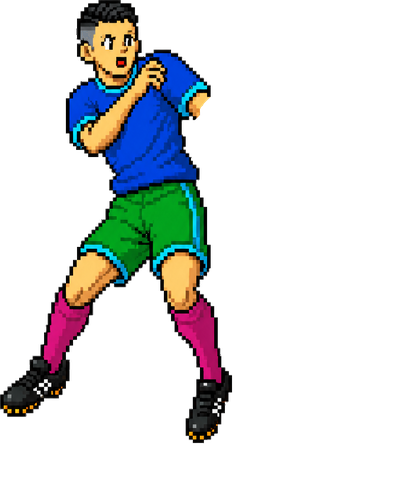
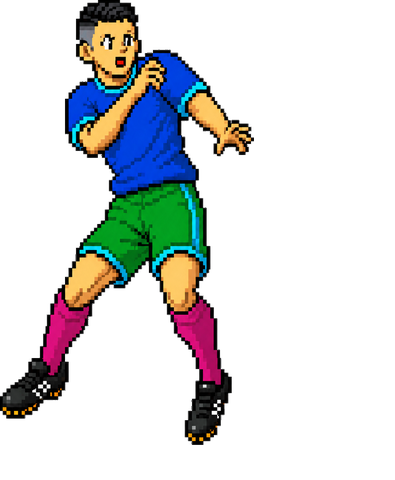
change(cutscene): ヘディングriseを独立生成2体へ差し替え（機械分離の腕欠損解消・lab限定）
- rise(跳び上がり)の攻守2体を「1枚絵2選手の機械分離」→「ChatGPTで1体ずつ別々生成した単体2枚」へ差し替え。旧版で分離時に切断されていた攻撃体の腕が完全になった（純改善・asset-qa確認）
- 新アセット header_rise_atk/def.png(395×480共通座標系): 境界フラッドフィル透過→刈り上げ/髪ツヤのリカラー窓パージ(atk5422/def4402px脱彩度)→シャツ青面積で旧版へ体格正規化(atk8253/def7283px・±0.4%)→de-fringe→旧頭センロイドアンカーで配置。処理系は tools/proto/process_header_rise2.py に保存(従来未保存だったパージ実装含む)
- 受入: 機械QA(赤キットリカラーシム髪着色ゼロ・ブーツ白ディテール全保持・クリップ新旧同等) + asset-qa 両体PASS
- 配線は _HEADER_RISE_*_SRC の ?v=2 バンプのみ。座標系/体格を旧版に合わせたためレンダラ無改変・clashとの遷移も体格連続を dist-lab 実描画(固定クロックコマ送り)で確認
- 本番(MangaRecolor未ロード)は従来SVGフォールバックのまま不変

Changed region(s): [[0.0, 0.0, 0.638, 0.875], [0.4557, 0.7188, 0.6076, 0.9375], [0.4557, 0.125, 0.4861, 0.1562]]

diff --git a/js/cutscene.js b/js/cutscene.js
@@ -1892,8 +1892,10 @@ function _headerRecolor(base, atkColor, defColor, srcId) {
 //   MangaRecolor で各チームのキット4色＋選手肌へ独立リカラー→同じ矩形に重ねて競り合い構図を復元。
 //   描画順=守備(先)→攻撃(後)で攻撃を前面（競り勝つ絵）。clashは当面 rise 流用（下の _HEADER_CLASH_* を
 //   専用アートへ差し替えれば frame B が切り替わる）。MangaRecolor 未ロード(本番)は null→従来SVGへ。
-var _HEADER_RISE_ATK_SRC = 'img/cutscenes/header_rise_atk.png';
-var _HEADER_RISE_DEF_SRC = 'img/cutscenes/header_rise_def.png';
+//   rise は 2026-07-10 に「1枚絵の機械分離」→「独立生成の単体2枚」へ差し替え（旧版の腕欠損解消・
+//   処理系 tools/proto/process_header_rise2.py・座標系/体格は旧版に正規化済み）。
+var _HEADER_RISE_ATK_SRC = 'img/cutscenes/header_rise_atk.png?v=2';
+var _HEADER_RISE_DEF_SRC = 'img/cutscenes/header_rise_def.png?v=2';
 // clash（接触）専用アート（2026-07-09 差し替え済み・rise と同じ2体分離＋MangaRecolor方式）。
 var _HEADER_CLASH_ATK_SRC = 'img/cutscenes/header_clash_atk.png';
 var _HEADER_CLASH_DEF_SRC = 'img/cutscenes/header_clash_def.png';
